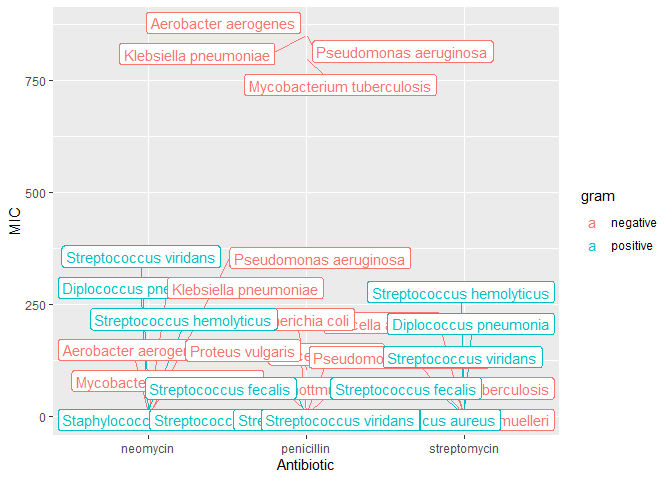
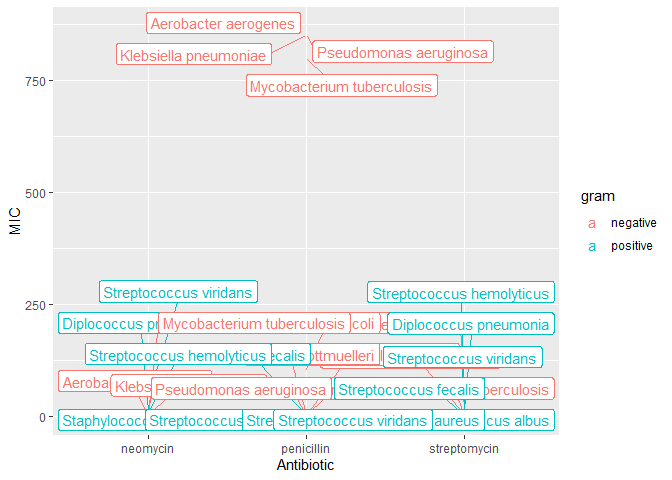
Update metadata

diff --git a/challenges/c05-antibiotics-assignment.md b/challenges/c05-antibiotics-assignment.md
@@ -210,6 +210,24 @@ df_antibiotics_longer %>%
 
 ![](c05-antibiotics-assignment_files/figure-gfm/q1.2-1.png)<!-- -->
 
+``` r
+df_antibiotics_longer %>%
+   filter(bacteria != "Aerobacter aerogenes" & bacteria != "Klebsiella pneumoniae" & bacteria != "Mycobacterium tuberculosis" & bacteria != "Pseudomonas aeruginosa" & bacteria != "Escherichia coli") %>%
+  ggplot(aes(x = MIC, y = bacteria)) +
+  geom_col(aes(fill = Antibiotic, linetype = gram), position = "dodge2", color = "black")
+```
+
+![](c05-antibiotics-assignment_files/figure-gfm/q1.2-2.png)<!-- -->
+
+``` r
+df_antibiotics_longer %>%
+   filter(MIC < 0.1 ) %>%
+  ggplot(aes(x = MIC, y = bacteria)) +
+  geom_col(aes(fill = Antibiotic, linetype = gram), position = "dodge2", color = "black")
+```
+
+![](c05-antibiotics-assignment_files/figure-gfm/q1.2-3.png)<!-- -->
+
 #### Visual 3 (Some variables)
 
 In this visual you may show a *subset* of the variables (`penicillin`,
@@ -268,9 +286,11 @@ your other visuals.
 
 ``` r
 df_antibiotics_longer %>%
+  filter(MIC < 0.1 ) %>%
   ggplot(aes(bacteria, Antibiotic, color = gram)) +
   geom_point(aes(size = MIC)) +
-  theme(axis.text.x = element_text(angle = 90, vjust = 0.5, hjust=1))
+  theme(axis.text.x = element_text(angle = 90, vjust = 0.5, hjust=1)) +
+  coord_flip()
 ```
 
 ![](c05-antibiotics-assignment_files/figure-gfm/q1.5-1.png)<!-- -->
@@ -294,10 +314,48 @@ opportunity to think about why this is.**
 > How do the three antibiotics vary in their effectiveness against
 > bacteria of different genera and Gram stain?
 
-*Observations* - What is your response to the question above? - (Write
-your response here) - Which of your visuals above (1 through 5) is
-**most effective** at helping to answer this question? - (Write your
-response here) - Why? - (Write your response here)
+*Observations* - What is your response to the question above?
+
+- The first bar graph shows that Penicillin is not effective at treating
+  Pseudo. aerug., but this is before filtering the data for a better bar
+  graph.
+
+- Penicillin and Streptomycin are only effective against gram positive
+  bacteria, while neomycin is effective against a mix of gram positive
+  and negative bacteria.
+
+- Neomycin is effect against Salmo. aureus, Staphy. albus, Salmon.
+  schott., Salmon. typhosa, Brucella abortus, and Bacillus anthr.
+
+- Penicillin is effective against Strepto. virid., Strepto. hemol.,
+  Staphyl. aureus, Staphyl albus, Diplo. pneumon., and Bacillus anthr.
+
+- Streptomycin is effective agains Staphyl. aureus and Bacillus anthr.
+
+- Neomycin is the only antibiotic effective against the genus
+  Salmonella.
+
+- Both Penicillin and Neomycin are effective against the genus
+  Staphylococcus, but Neomycin is more effective (lower MIC).
+
+- Penicillin is the only antibiotic effective against the genus
+  Streptococcus, with the exception of the species Streptococcus
+  fecalis.
+
+Which of your visuals above (1 through 5) is **most effective** at
+helping to answer this question?
+
+- Visual 3 for the second observation, visual 2 for the rest.
+- Visual 2, but I had to create two extra graphs with filtering such
+  that very large bars no longer squished all of the data near zero.
+
+Why? - (Write your response here)
+
+- Visual 3: Made it very easy to discern how gram positive and negative
+  bacteria change the effectiveness of antibiotics.
+- Visual 2: Filtering for further plots was very simple with the bar
+  graph, and the bars were easy to see, unlike the dots in the scatter
+  plot.
 
 #### Guiding Question 2
 
@@ -308,10 +366,25 @@ and in 1984 *Streptococcus fecalis* was renamed *Enterococcus fecalis*
 > Why was *Diplococcus pneumoniae* was renamed *Streptococcus
 > pneumoniae*?
 
-*Observations* - What is your response to the question above? - (Write
-your response here) - Which of your visuals above (1 through 5) is
-**most effective** at helping to answer this question? - (Write your
-response here) - Why? - (Write your response here)
+*Observations* - What is your response to the question above?
+
+- With the exception of Streptococcus fecalis, all bacteria included in
+  this data set are only effected by penicillin. *Diplococcus
+  pneumoniae* is also only effected by pencillin, which is likely why is
+  was renamed to *Streptococcus pneumoniae.* This is also likely why
+  *Streptococcus fecalis* was renamed *Enterococcus fecalis.*
+
+Which of your visuals above (1 through 5) is **most effective** at
+helping to answer this question?
+
+- Visual 3, the final variation with filtering set to remove all
+  observations with an MIC higher than 0.1.
+
+(Write your response here) - Why? - (Write your response here)
+
+- The colors helped quickly discern which bacteria were effected by
+  which antibiotics, which allowed me to see the pattern relating
+  penicillin to Streptococcus.
 
 # References
 
